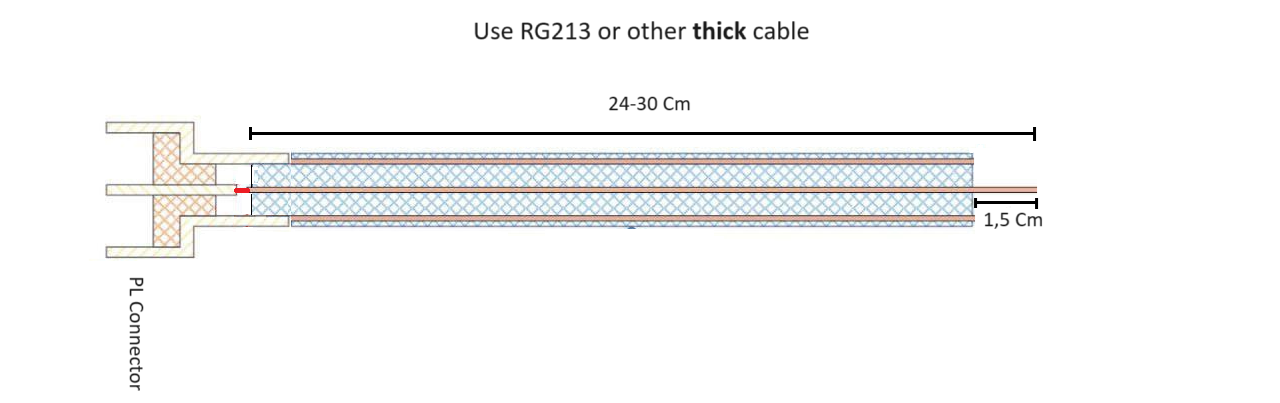
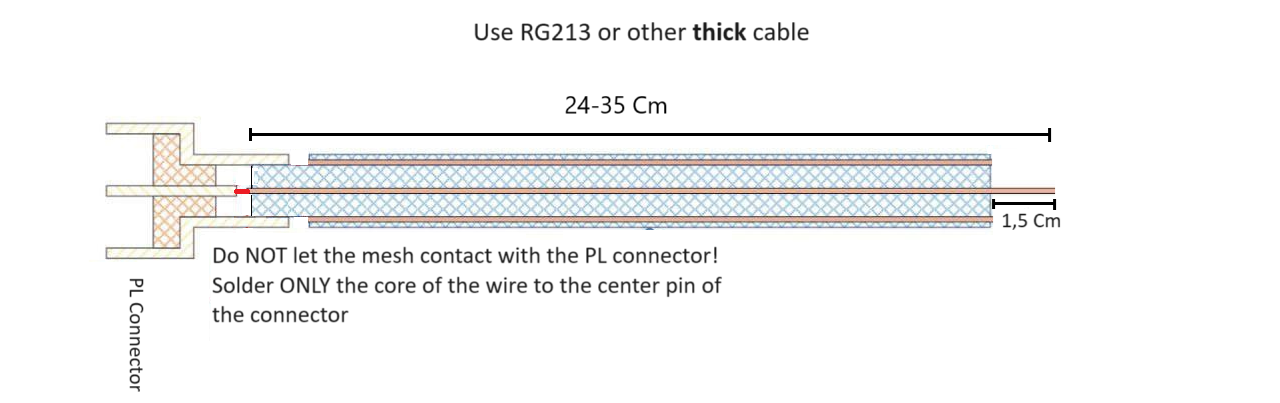
Update monopole instructions

diff --git a/docs/antennas/monopole.md b/docs/antennas/monopole.md
@@ -5,6 +5,7 @@ This antenna is probably the worst in terms of reception but it still can reach 
 <img height="450" src="/../_img/antennas/monopole.png" />
 
 Simply cut 30cm of a RG213 cable and solder the central core to the connector. After that, leave 1,5cm of wire at the top.  
+Make sure that the **mesh does not touch the connector**
 Do the final adjustments with NanoVNA and cut the cable until it reaches the frequency you want and always leave 1,5cm of cable exposed at the tip.
 
 <img height="300" src="/../_img/antennas/monopole_swr.jpg" />

diff --git a/docs/es/antenas/monopolo.md b/docs/es/antenas/monopolo.md
@@ -5,6 +5,7 @@ Es probablemente la peor antena en terminos de recepcion pero aun asi puede lleg
 <img height="450" src="/../_img/antennas/monopole.png" />
 
 Simplemente corta un cable RG213 de 30 cm y suelda el cable central al conector.  
+**Asegurate que la malla no toca el conector**  
 En la parte de arriba corta la malla 1,5cm y deja el cable interior al aire.  
 
 Finalmente con el NanoVNA debes ir cortando el cable hasta que quede en la frecuencia que te interesa y siempre dejando 1,5cm de cable expuesto en la punta.
